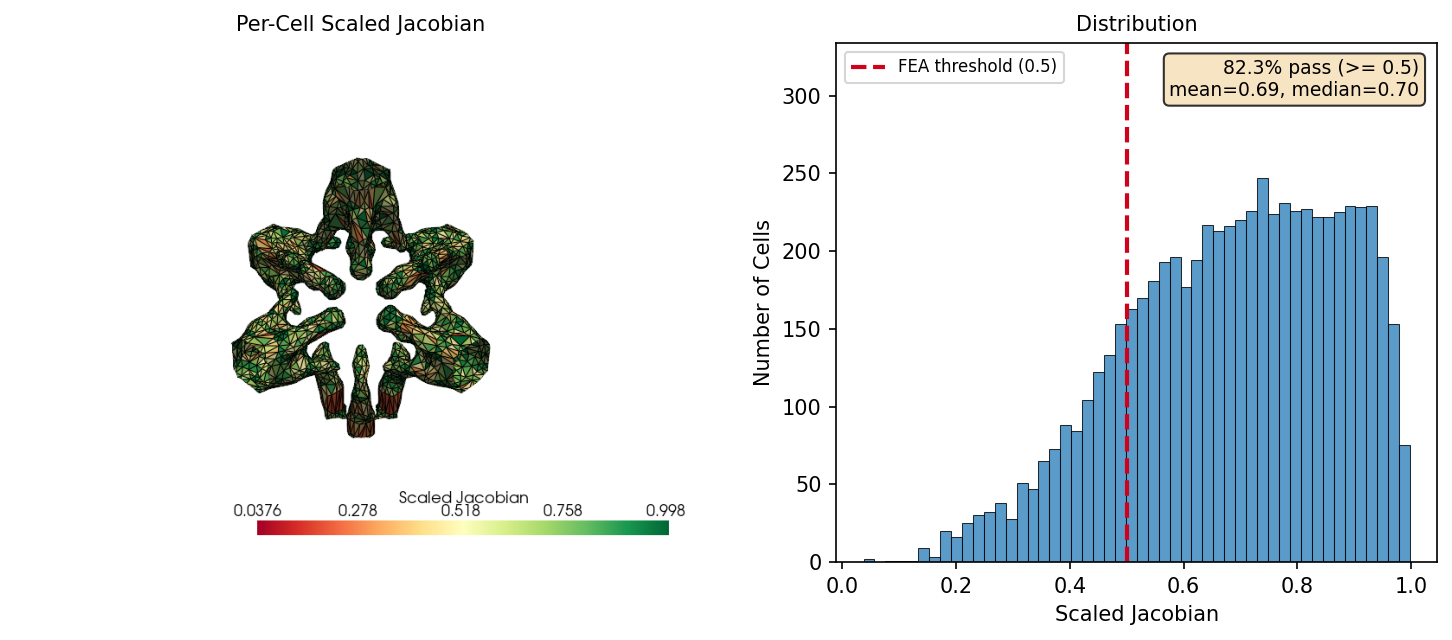
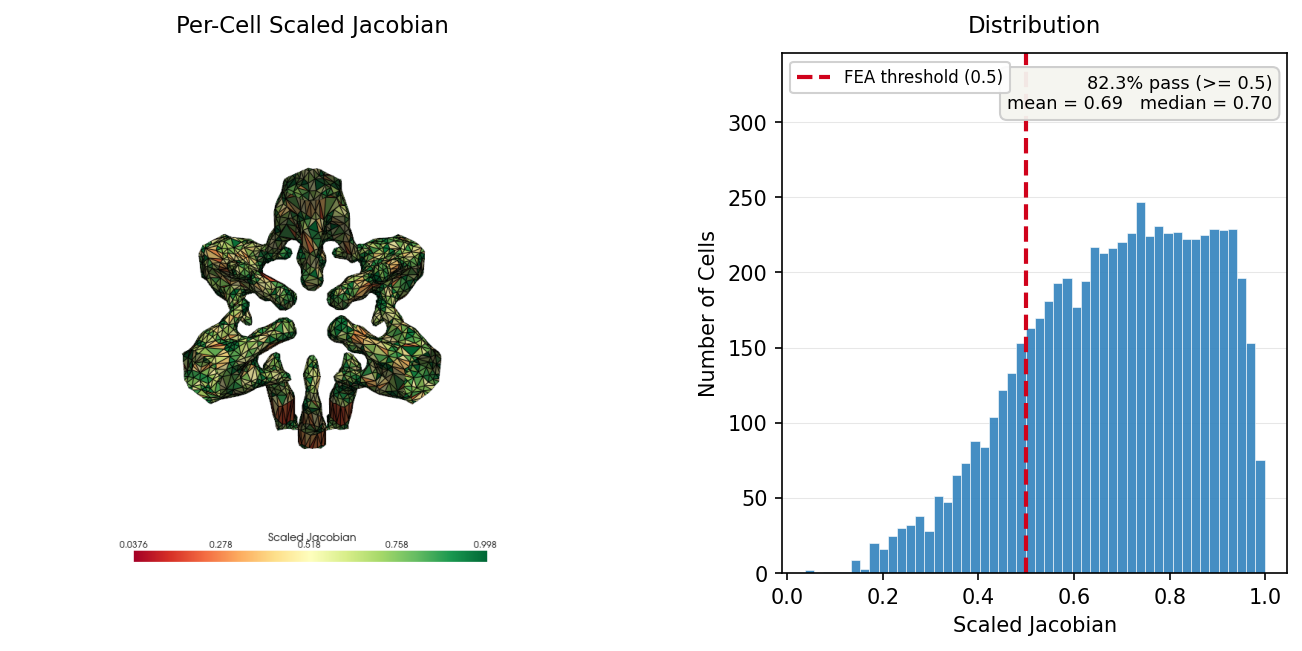
fix: refine illustrations per review round 2
- Field types: collapse 2x2 to 1x2, contours overlaid on field heatmaps
- Parameters: split into 3 separate images (threshold, sigma, taubin),
  placed inline next to each tuning tips section
- Quality: horizontal scalar bar below mesh, refined histogram layout
  with grid lines, headroom, and polished annotation styling

diff --git a/scripts/generate_doc_images.py b/scripts/generate_doc_images.py
@@ -192,7 +192,7 @@ def gen_pipeline_stages() -> None:
 
 
 def gen_field_types() -> None:
-    """Image 3: Density vs SDF 2x2 comparison grid (2D fields)."""
+    """Image 3: Density vs SDF 1x2 — field heatmap with contour overlay."""
     import numpy as np
     from xeltofab.io import load_field
     from xeltofab.pipeline import process
@@ -214,43 +214,29 @@ def gen_field_types() -> None:
 
     vmax_sdf = np.abs(sdf_field).max()
 
-    fig, axes = plt.subplots(2, 2, figsize=(10, 5.5))
+    fig, (ax_den, ax_sdf) = plt.subplots(1, 2, figsize=(10, 3.2))
 
-    # Top-left: Density field heatmap
-    im0 = axes[0, 0].imshow(state_density.field, cmap="YlOrRd", origin="lower",
-                             vmin=0, vmax=1)
-    axes[0, 0].set_title("Density Field (0\u21921)", fontsize=10)
-    axes[0, 0].axis("off")
-    fig.colorbar(im0, ax=axes[0, 0], fraction=0.046, pad=0.04)
-
-    # Top-right: SDF field heatmap
-    im1 = axes[0, 1].imshow(sdf_field, cmap="RdBu", origin="lower",
-                             vmin=-vmax_sdf, vmax=vmax_sdf)
-    axes[0, 1].set_title("SDF Field (signed distance)", fontsize=10)
-    axes[0, 1].axis("off")
-    fig.colorbar(im1, ax=axes[0, 1], fraction=0.046, pad=0.04)
-
-    # Bottom-left: Same density colormap + extracted contours at threshold=0.5
-    im2 = axes[1, 0].imshow(state_density.field, cmap="YlOrRd", origin="lower",
-                             vmin=0, vmax=1)
+    # Left: Density field + extracted contours
+    im0 = ax_den.imshow(state_density.field, cmap="YlOrRd", origin="lower",
+                         vmin=0, vmax=1)
     if result_density.contours:
         for contour in result_density.contours:
-            axes[1, 0].plot(contour[:, 1], contour[:, 0], color="#1a1a1a",
-                            linewidth=2.0)
-    axes[1, 0].set_title("Extracted at threshold=0.5", fontsize=10)
-    axes[1, 0].axis("off")
-    fig.colorbar(im2, ax=axes[1, 0], fraction=0.046, pad=0.04)
+            ax_den.plot(contour[:, 1], contour[:, 0], color="#1a1a1a",
+                        linewidth=1.8)
+    ax_den.set_title("Density field — extracted at threshold = 0.5", fontsize=9.5)
+    ax_den.axis("off")
+    fig.colorbar(im0, ax=ax_den, fraction=0.046, pad=0.04)
 
-    # Bottom-right: Same SDF colormap + extracted contours at level=0
-    im3 = axes[1, 1].imshow(sdf_field, cmap="RdBu", origin="lower",
-                             vmin=-vmax_sdf, vmax=vmax_sdf)
+    # Right: SDF field + extracted contours
+    im1 = ax_sdf.imshow(sdf_field, cmap="RdBu", origin="lower",
+                         vmin=-vmax_sdf, vmax=vmax_sdf)
     if result_sdf.contours:
         for contour in result_sdf.contours:
-            axes[1, 1].plot(contour[:, 1], contour[:, 0], color="#1a1a1a",
-                            linewidth=2.0)
-    axes[1, 1].set_title("Extracted at level=0.0", fontsize=10)
-    axes[1, 1].axis("off")
-    fig.colorbar(im3, ax=axes[1, 1], fraction=0.046, pad=0.04)
+            ax_sdf.plot(contour[:, 1], contour[:, 0], color="#1a1a1a",
+                        linewidth=1.8)
+    ax_sdf.set_title("SDF field — extracted at level = 0.0", fontsize=9.5)
+    ax_sdf.axis("off")
+    fig.colorbar(im1, ax=ax_sdf, fraction=0.046, pad=0.04)
 
     fig.patch.set_facecolor(BG_COLOR)
     fig.tight_layout(pad=1.5)
@@ -260,57 +246,93 @@ def gen_field_types() -> None:
 
 
 def gen_parameter_sensitivity() -> None:
-    """Image 4: 3x3 parameter sensitivity grid."""
-    import numpy as np
+    """Image 4: Three separate 1x3 strips for threshold, sigma, and taubin."""
+    _gen_param_threshold()
+    _gen_param_sigma()
+    _gen_param_taubin()
+
+
+def _gen_param_threshold() -> None:
+    """Threshold variation: 1x3 strip showing contours at 0.3, 0.5, 0.7."""
     from xeltofab.io import load_field
     from xeltofab.preprocess import preprocess
     from xeltofab.extract import extract
-    from xeltofab.smooth import smooth
     from xeltofab.state import PipelineParams
 
-    # Load data — thermoelastic is coarser (16^3), making smoothing diffs visible
     state_2d = load_field("data/examples/beams_2d_100x200_sample0.npy")
-    state_3d = load_field("data/examples/thermoelastic_3d_16x16x16_sample0.npy")
 
-    fig, axes = plt.subplots(3, 3, figsize=(10, 7.5))
+    fig, axes = plt.subplots(1, 3, figsize=(10, 2.8))
     fig.patch.set_facecolor(BG_COLOR)
 
-    # Row 1: threshold variation (2D contours on density field)
     thresholds = [0.3, 0.5, 0.7]
     for col, thresh in enumerate(thresholds):
         params = PipelineParams(threshold=thresh)
         st = state_2d.model_copy(update={"params": params})
         st = preprocess(st)
         st = extract(st)
-        ax = axes[0, col]
-        ax.imshow(state_2d.field, cmap="gray_r", origin="lower", alpha=0.4)
+        ax = axes[col]
+        ax.imshow(state_2d.field, cmap="YlOrRd", origin="lower", vmin=0, vmax=1)
         if st.contours:
             for c in st.contours:
-                ax.plot(c[:, 1], c[:, 0], "b-", linewidth=1.2)
-        ax.set_title(f"threshold={thresh}", fontsize=9)
+                ax.plot(c[:, 1], c[:, 0], color="#1a1a1a", linewidth=1.5)
+        ax.set_title(f"threshold = {thresh}", fontsize=10)
         ax.axis("off")
-    axes[0, 0].set_ylabel("Threshold", fontsize=10, fontweight="bold")
 
-    # Row 2: sigma variation (2D — show contours after preprocess + extract)
+    fig.tight_layout(pad=1.0)
+    fig.savefig(OUTPUT_DIR / "param-threshold.png", dpi=DPI, bbox_inches="tight",
+                facecolor=BG_COLOR)
+    plt.close(fig)
+
+
+def _gen_param_sigma() -> None:
+    """Sigma variation: 1x3 strip showing contours at sigma 0, 1, 2."""
+    from xeltofab.io import load_field
+    from xeltofab.preprocess import preprocess
+    from xeltofab.extract import extract
+    from xeltofab.state import PipelineParams
+
+    state_2d = load_field("data/examples/beams_2d_100x200_sample0.npy")
+
+    fig, axes = plt.subplots(1, 3, figsize=(10, 2.8))
+    fig.patch.set_facecolor(BG_COLOR)
+
     sigmas = [0.0, 1.0, 2.0]
     for col, sigma in enumerate(sigmas):
         params = PipelineParams(smooth_sigma=sigma)
         st = state_2d.model_copy(update={"params": params})
         st = preprocess(st)
         st = extract(st)
-        ax = axes[1, col]
-        ax.imshow(state_2d.field, cmap="gray_r", origin="lower", alpha=0.4)
+        ax = axes[col]
+        ax.imshow(state_2d.field, cmap="YlOrRd", origin="lower", vmin=0, vmax=1)
         if st.contours:
             for c in st.contours:
-                ax.plot(c[:, 1], c[:, 0], "b-", linewidth=1.2)
-        ax.set_title(f"smooth_sigma={sigma}", fontsize=9)
+                ax.plot(c[:, 1], c[:, 0], color="#1a1a1a", linewidth=1.5)
+        ax.set_title(f"smooth_sigma = {sigma}", fontsize=10)
         ax.axis("off")
-    axes[1, 0].set_ylabel("Sigma", fontsize=10, fontweight="bold")
 
-    # Row 3: taubin_iterations variation (3D mesh screenshots)
-    iterations = [0, 10, 50]
+    fig.tight_layout(pad=1.0)
+    fig.savefig(OUTPUT_DIR / "param-sigma.png", dpi=DPI, bbox_inches="tight",
+                facecolor=BG_COLOR)
+    plt.close(fig)
+
+
+def _gen_param_taubin() -> None:
+    """Taubin variation: 1x3 strip showing mesh at 0, 10, 50 iterations."""
+    from xeltofab.io import load_field
+    from xeltofab.preprocess import preprocess
+    from xeltofab.extract import extract
+    from xeltofab.smooth import smooth
+    from xeltofab.state import PipelineParams
+
+    # Thermoelastic — coarser mesh makes smoothing differences visible
+    state_3d = load_field("data/examples/thermoelastic_3d_16x16x16_sample0.npy")
     state_3d_pre = preprocess(state_3d)
     state_3d_ext = extract(state_3d_pre)
+
+    fig, axes = plt.subplots(1, 3, figsize=(10, 3.5))
+    fig.patch.set_facecolor(BG_COLOR)
+
+    iterations = [0, 10, 50]
     for col, iters in enumerate(iterations):
         if iters == 0:
             verts = state_3d_ext.vertices
@@ -320,14 +342,13 @@ def gen_parameter_sensitivity() -> None:
             st = smooth(st)
             verts = st.best_vertices
         img = _pv_screenshot(verts, state_3d_ext.faces)
-        ax = axes[2, col]
+        ax = axes[col]
         ax.imshow(img)
-        ax.set_title(f"taubin_iterations={iters}", fontsize=9)
+        ax.set_title(f"taubin_iterations = {iters}", fontsize=10)
         ax.axis("off")
-    axes[2, 0].set_ylabel("Taubin", fontsize=10, fontweight="bold")
 
-    fig.tight_layout(pad=1.5)
-    fig.savefig(OUTPUT_DIR / "parameter-sensitivity.png", dpi=DPI, bbox_inches="tight",
+    fig.tight_layout(pad=1.0)
+    fig.savefig(OUTPUT_DIR / "param-taubin.png", dpi=DPI, bbox_inches="tight",
                 facecolor=BG_COLOR)
     plt.close(fig)
 
@@ -360,52 +381,71 @@ def gen_quality_metrics() -> None:
     pass_pct = _compute_pass_rate(values, metric, threshold)
 
     # Left panel: pyvista heatmap screenshot
+    # Position scalar bar below the mesh with generous spacing
     pv_mesh.cell_data[metric] = values
-    pl = pv.Plotter(off_screen=True, window_size=[800, 600])
+    pl = pv.Plotter(off_screen=True, window_size=[800, 700])
     pl.add_mesh(
         pv_mesh, scalars=metric, cmap="RdYlGn",
         show_edges=True, edge_color="black", line_width=0.3,
-        scalar_bar_args={"title": _METRIC_LABELS[metric]},
+        scalar_bar_args={
+            "title": _METRIC_LABELS[metric],
+            "title_font_size": 14,
+            "label_font_size": 12,
+            "position_x": 0.2,
+            "position_y": 0.02,
+            "width": 0.6,
+            "height": 0.06,
+            "vertical": False,
+        },
     )
     pl.camera_position = "iso"
     pl.set_background(BG_COLOR)
     heatmap_img = pl.screenshot(return_img=True)
     pl.close()
 
-    # Composite: left = heatmap image, right = histogram
-    fig, (ax_left, ax_right) = plt.subplots(1, 2, figsize=(10, 4.5),
-                                             gridspec_kw={"width_ratios": [1.2, 1]})
+    # Composite: left = heatmap, right = histogram
+    fig, (ax_left, ax_right) = plt.subplots(
+        1, 2, figsize=(11, 4.5),
+        gridspec_kw={"width_ratios": [1.2, 1], "wspace": 0.3},
+    )
 
     ax_left.imshow(heatmap_img)
-    ax_left.set_title("Per-Cell Scaled Jacobian", fontsize=10)
+    ax_left.set_title("Per-Cell Scaled Jacobian", fontsize=11, pad=10)
     ax_left.axis("off")
 
-    # Right: histogram
+    # Right: histogram with clean layout
     counts, bin_edges, patches = ax_right.hist(
-        values, bins=50, edgecolor="black", linewidth=0.5, alpha=0.8,
+        values, bins=50, edgecolor="white", linewidth=0.3, alpha=0.9,
         color="#3182BD",
     )
     ax_right.axvline(threshold, color="#D0021B", linestyle="--", linewidth=2,
                      label=f"FEA threshold ({threshold})")
 
-    # Extend y-axis to make room for annotation above bars
+    # Extend y-axis for headroom; place stats in upper-right above bars
     y_max = counts.max()
-    ax_right.set_ylim(0, y_max * 1.35)
+    ax_right.set_ylim(0, y_max * 1.4)
 
     direction = ">=" if _HIGHER_IS_BETTER[metric] else "<="
-    ax_right.annotate(
+    ax_right.text(
+        0.97, 0.96,
         f"{pass_pct:.1f}% pass ({direction} {threshold})\n"
-        f"mean={np.mean(values):.2f}, median={np.median(values):.2f}",
-        xy=(0.97, 0.97), xycoords="axes fraction", ha="right", va="top",
-        fontsize=9, bbox=dict(boxstyle="round,pad=0.3", facecolor="wheat", alpha=0.8),
+        f"mean = {np.mean(values):.2f}   median = {np.median(values):.2f}",
+        transform=ax_right.transAxes, ha="right", va="top",
+        fontsize=8.5,
+        bbox=dict(boxstyle="round,pad=0.4", facecolor="#F5F5F0",
+                  edgecolor="#CCCCCC", alpha=0.95),
     )
     ax_right.set_xlabel(_METRIC_LABELS[metric], fontsize=10)
     ax_right.set_ylabel("Number of Cells", fontsize=10)
-    ax_right.set_title("Distribution", fontsize=10)
-    ax_right.legend(loc="upper left", fontsize=8)
+    ax_right.set_title("Distribution", fontsize=11, pad=10)
+    ax_right.legend(loc="upper left", fontsize=8, framealpha=0.9)
+
+    # Light grid for readability
+    ax_right.yaxis.grid(True, alpha=0.3, linewidth=0.5)
+    ax_right.set_axisbelow(True)
 
     fig.patch.set_facecolor(BG_COLOR)
-    fig.tight_layout(pad=1.5)
+    fig.tight_layout(pad=1.0)
     fig.savefig(OUTPUT_DIR / "quality-jacobian.png", dpi=DPI, bbox_inches="tight",
                 facecolor=BG_COLOR)
     plt.close(fig)
